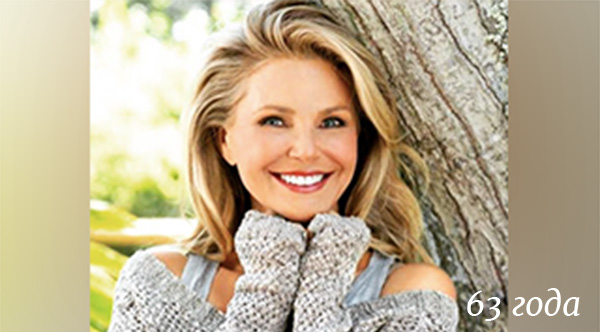
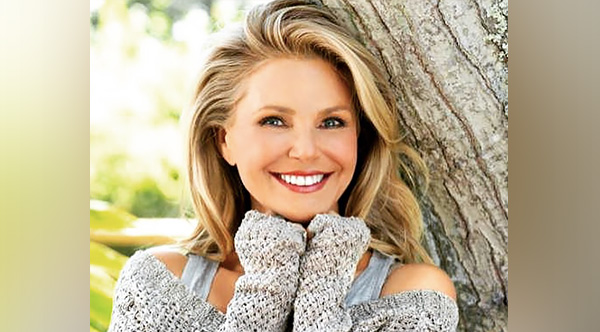
Add & animate image caption

diff --git a/css/main.min.css b/css/main.min.css
@@ -212,6 +212,32 @@ body {
   font-family: "Roboto", Arial, Helvetica, sans-serif;
   font-weight: 900;
 }
+/* captions */
+.owl-custom .item{
+  position: relative;
+}
+.owl-custom .item .caption{
+  display: block;
+  position: absolute;
+  z-index: 999;
+  right: 12px;
+  bottom: 12px;
+  color: #fff;
+  font-size: 18px;
+  font-family: "Merriweather",Arial,Helvetica,sans-serif;
+  font-style: italic;
+  text-shadow: 0px 0px 10px rgba(0, 0, 0, 0.4);
+  font-weight: 800;
+  opacity: 0;
+  transition: all 1s;
+}
+.active .item .caption{
+  opacity: 1;
+}
+
+
+
+
 @media only screen and (min-width: 240px) {
   .container {
     padding: 0 4px;
@@ -222,6 +248,9 @@ body {
   }
   .callback-four .hgroup {
     font-size: 14px;
+  }
+  .owl-custom .item .caption{
+    font-size: 18px;
   }
 }
 @media only screen and (min-width: 320px) {
@@ -241,6 +270,9 @@ body {
   .callback-four .hgroup {
     font-size: 15px;
   }
+  .owl-custom .item .caption{
+    font-size: 24px;
+  }
 }
 @media only screen and (min-width: 480px) {
   .form-order {
@@ -256,6 +288,11 @@ body {
   .callback-third .callback-header .hgroup {
     padding: 24px 0;
   }
+  .owl-custom .item .caption{
+    right: 16px;
+    bottom: 16px;
+    font-size: 28px;
+  }
 }
 @media only screen and (min-width: 768px) {
   .form-group {
@@ -265,6 +302,9 @@ body {
   .callback-four .hgroup {
     font-size: 24px;
   }
+  .owl-custom .item .caption{
+    font-size: 32px;
+  }
 }
 @media only screen and (min-width: 992px) {
   .form-group {
@@ -273,6 +313,9 @@ body {
   .disclaimer-text {
     font-size: 16px;
     padding: 24px 0;
+  }
+  .owl-custom .item .caption{
+    font-size: 36px;
   }
 }
 @media only screen and (min-width: 1200px) {
@@ -351,7 +394,7 @@ body {
   -webkit-tap-highlight-color: transparent; }
   .owl-custom .owl-nav [class*='owl-'] {
     color: #FFF;
-    font-size: 14px;
+    font-size: inherit;
     margin: 5px;
     padding: 4px 7px;
     background: #D6D6D6;
@@ -402,3 +445,4 @@ body {
     font-weight: 900;
     font-style: normal;
 }
+

diff --git a/index.html b/index.html
@@ -52,11 +52,26 @@
 	<div class="container">
 		<div class="callback-header">
 			<div class="owl-carousel owl-custom">
-				<img class="item img-responsive" src="images/001.jpg">
-				<img class="item img-responsive" src="images/002.jpg">
-				<img class="item img-responsive" src="images/003.jpg">
-				<img class="item img-responsive" src="images/004.jpg">
-				<img class="item img-responsive" src="images/005.jpg">
+				<div class="item">
+					<img class="item img-responsive" src="images/001.jpg">
+					<div class="caption">49 лет</div>
+				</div>
+				<div class="item">
+					<img class="item img-responsive" src="images/002.jpg">
+					<div class="caption">50 лет</div>
+				</div>
+				<div class="item">
+					<img class="item img-responsive" src="images/003.jpg">
+					<div class="caption">55 лет</div>
+				</div>
+				<div class="item">
+					<img class="item img-responsive" src="images/004.jpg">
+					<div class="caption">46 лет</div>
+				</div>
+				<div class="item">
+					<img class="item img-responsive" src="images/005.jpg">
+					<div class="caption">56 лет</div>
+				</div>
 			</div>
 			<div class="hgroup">
 				<h3 class="merriweathered">Выглядеть <span class="bolder"> после 50 на 30</span> можно и нужно!<br>Узнайте подробнее о <span class="bolder">ВСПЫШКЕ МОЛОДОСТИ</span></h3>
